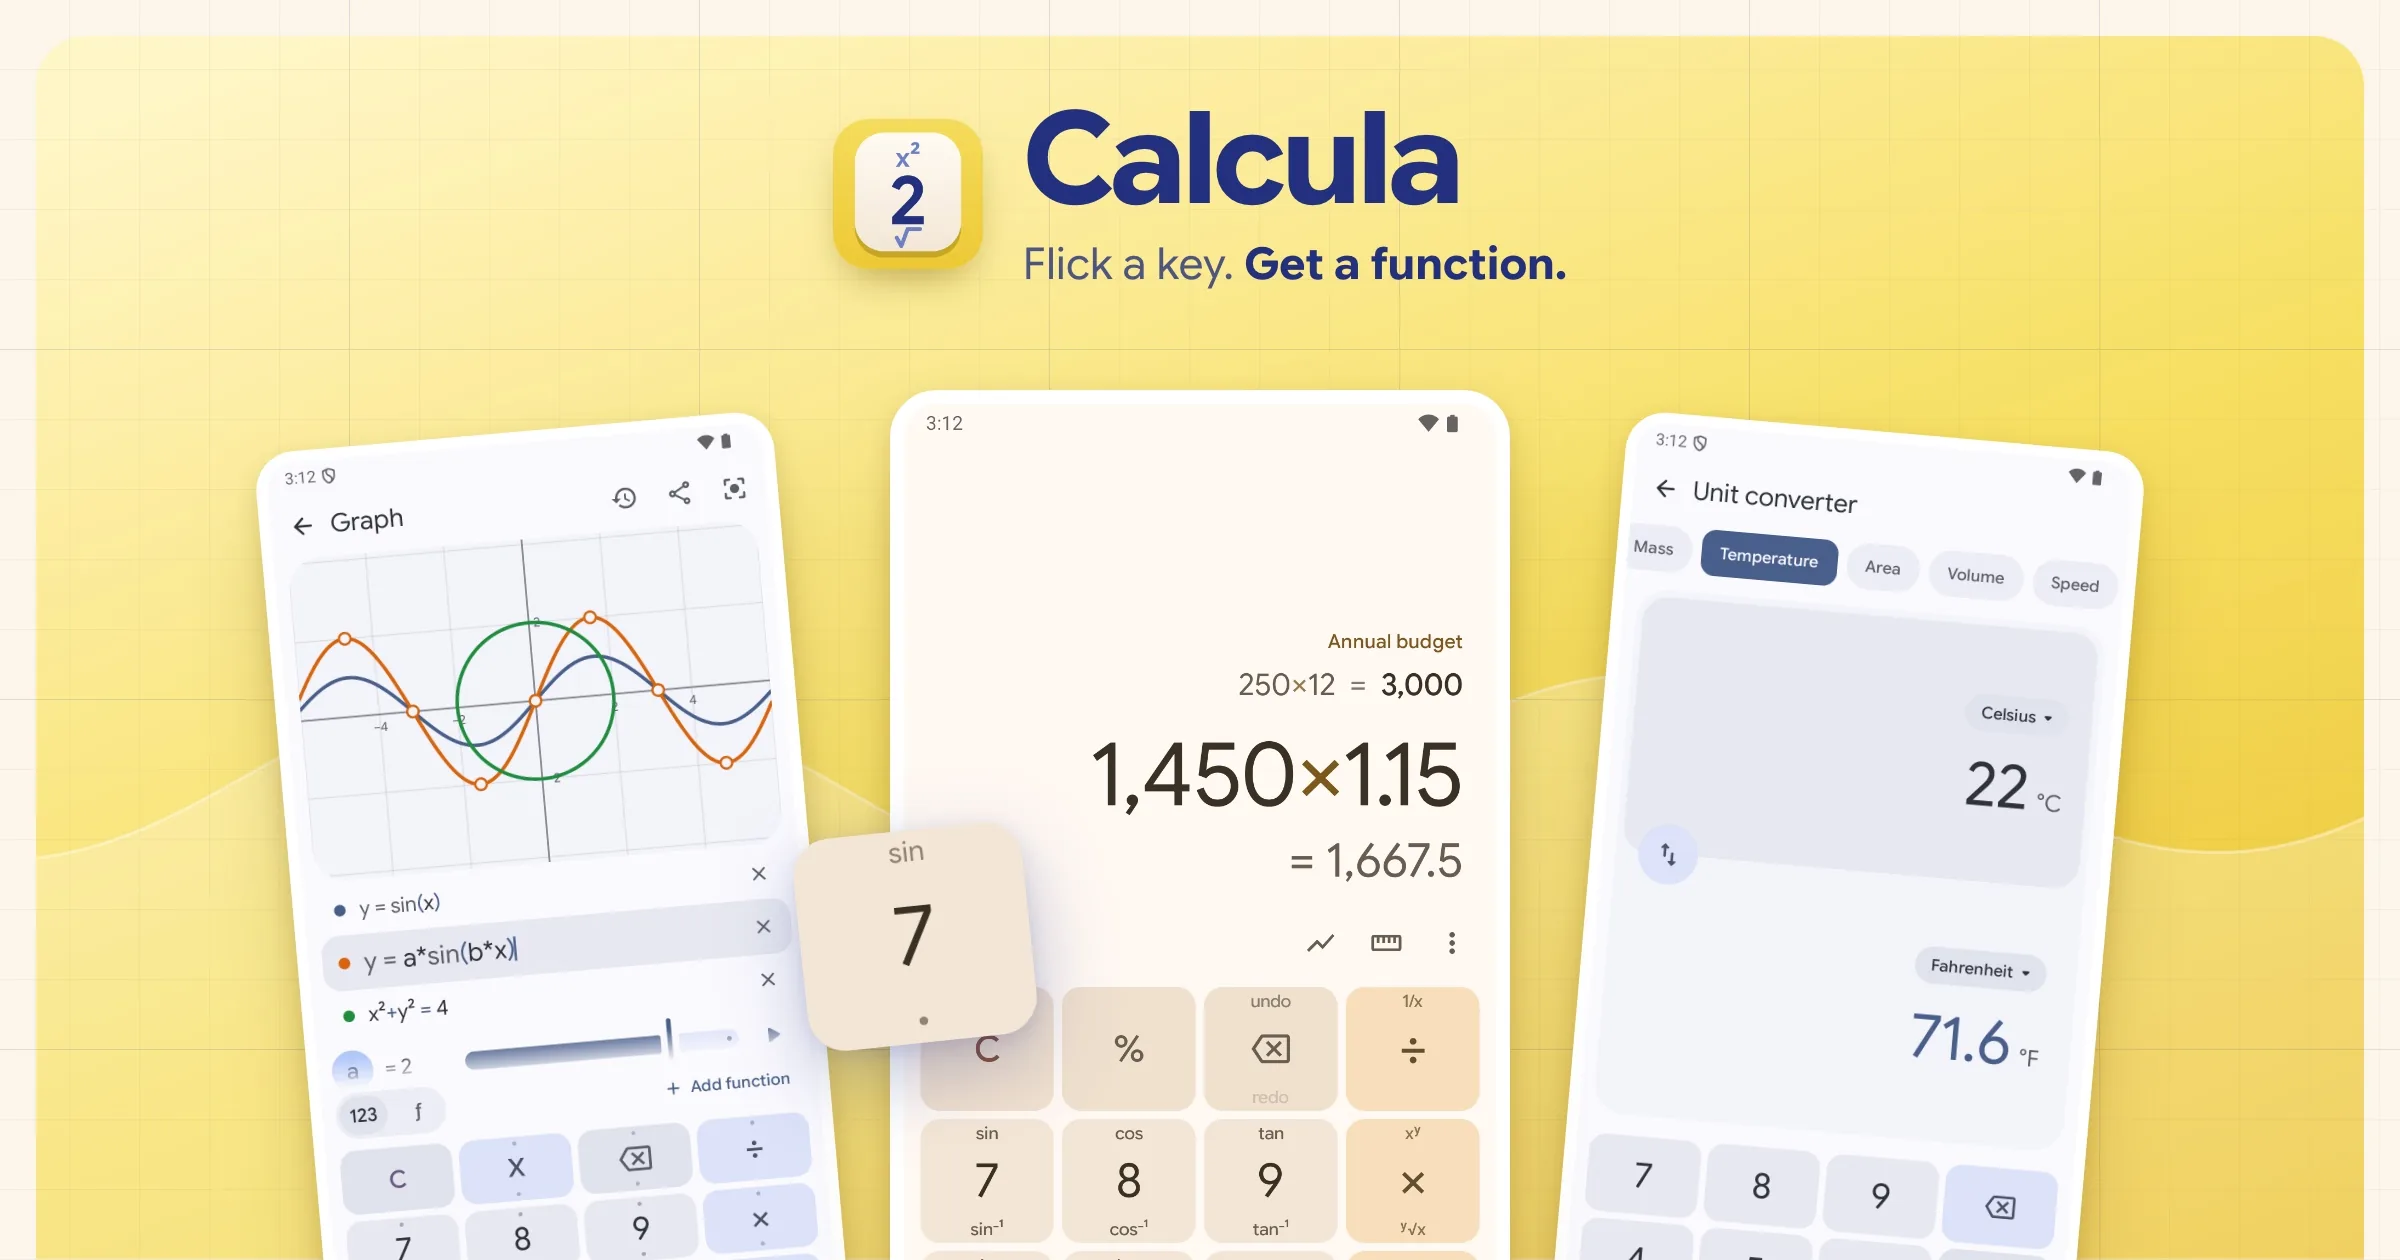
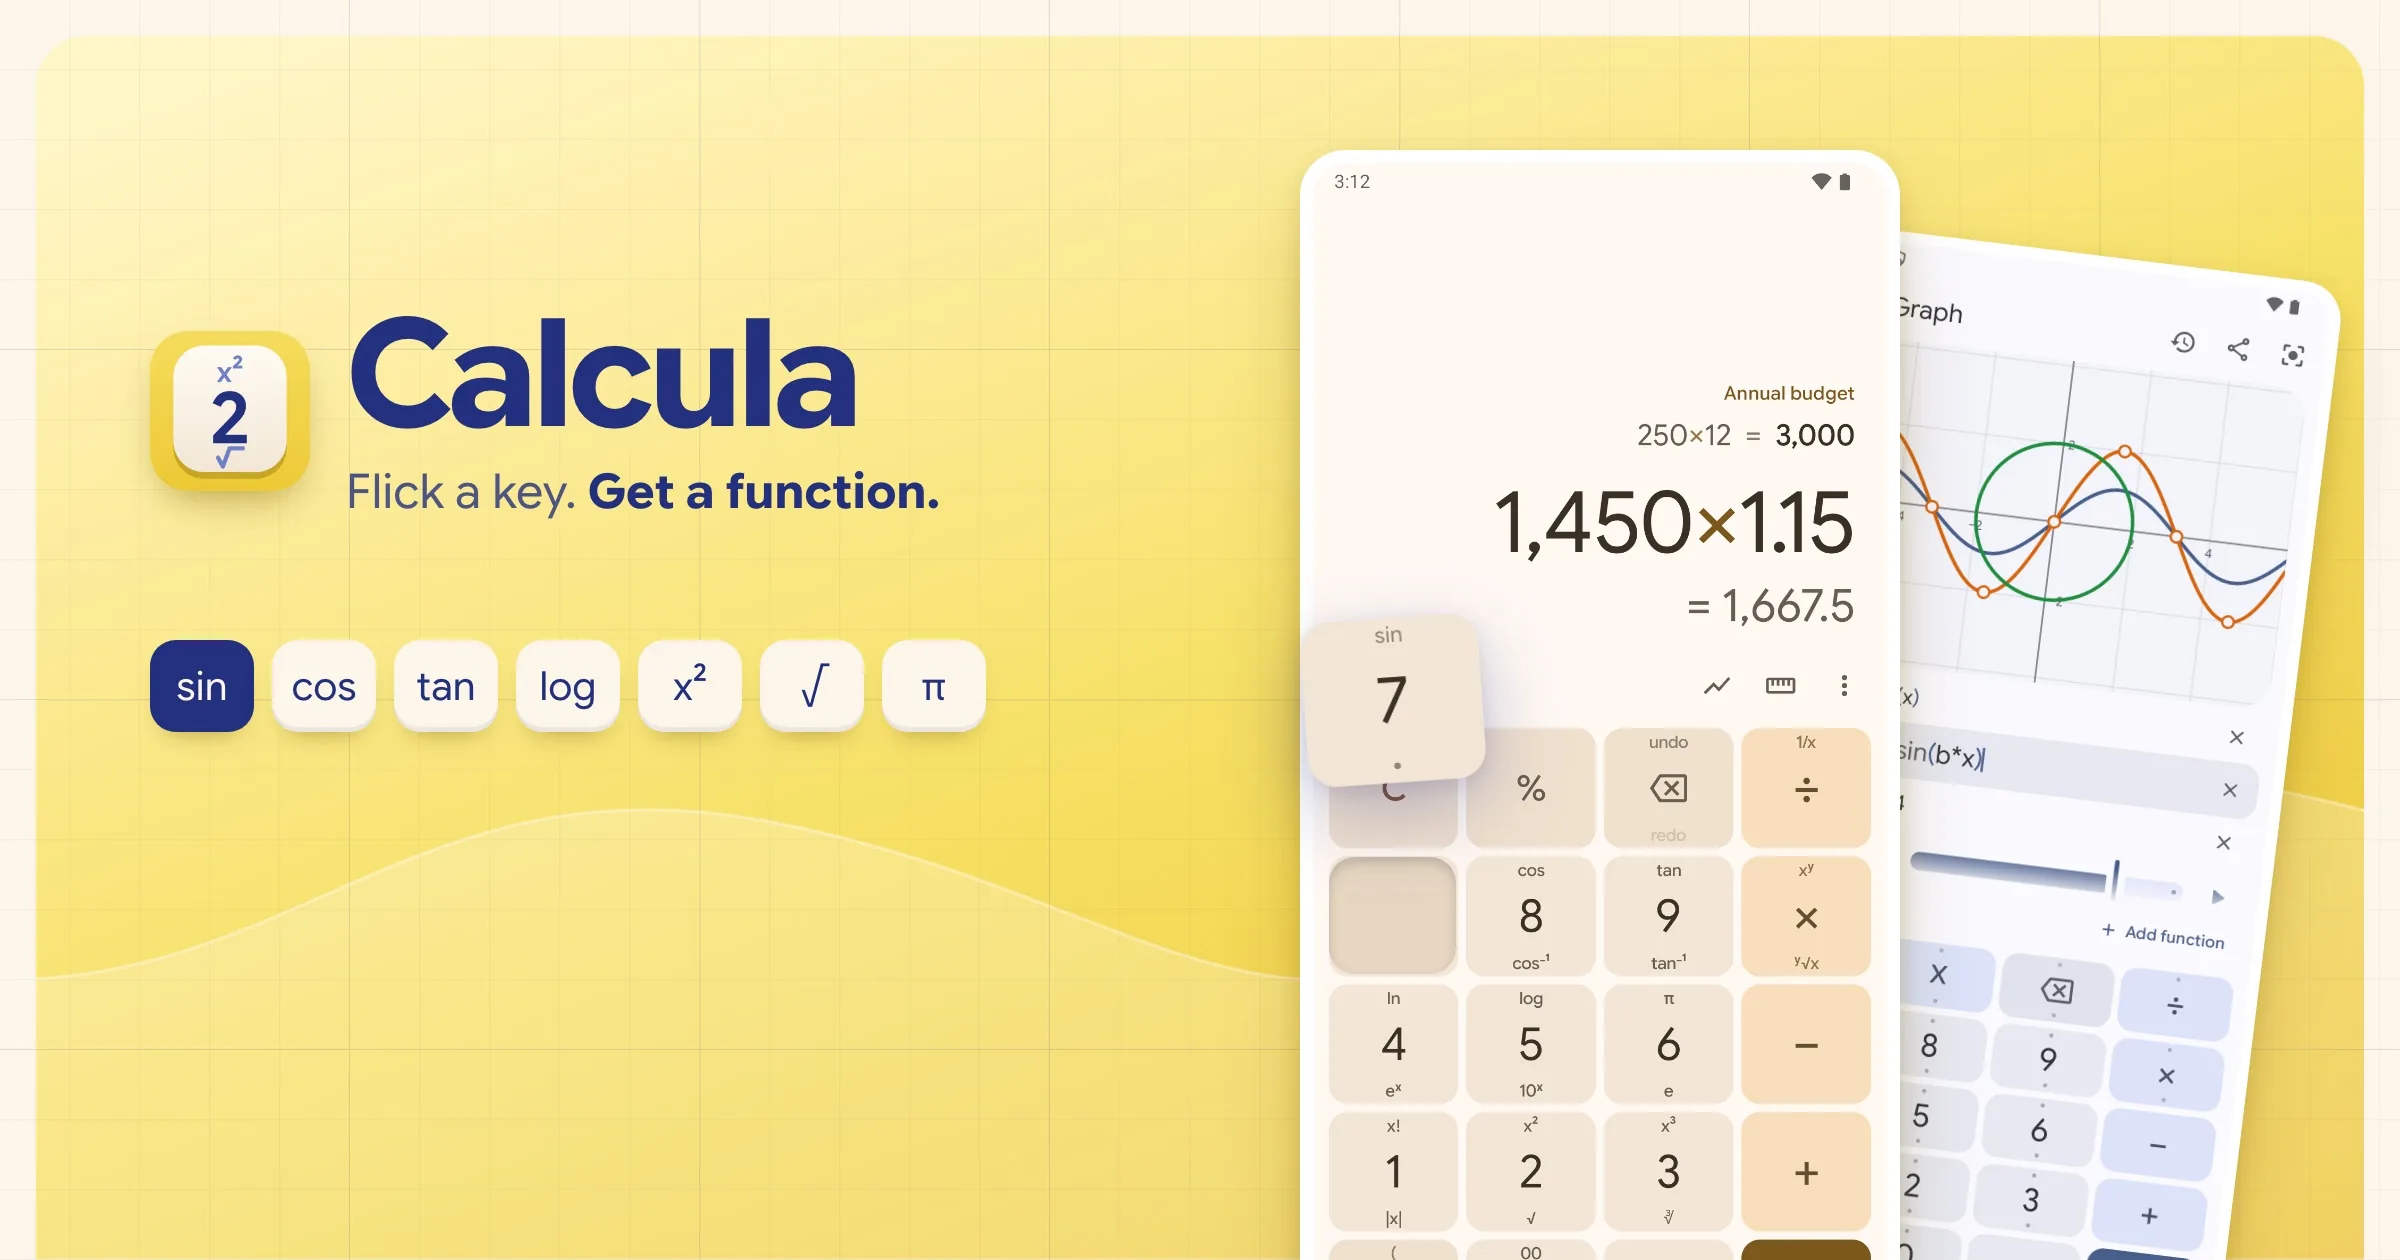
New Calcula and Wordkeep headers lead their cards

diff --git a/lib/apps.ts b/lib/apps.ts
@@ -87,7 +87,7 @@ export const apps: AppData[] = [
     images: [
       {
         file: "hero",
-        alt: "Wordkeep's notes grid, a Markdown note as you write it, and a to-do list",
+        alt: "A note written in plain Markdown, and the same note read clean",
       },
       {
         file: "notebook-1",
@@ -115,7 +115,7 @@ export const apps: AppData[] = [
     images: [
       {
         file: "hero",
-        alt: "A graph, the keypad with a function on every key, and unit conversion",
+        alt: "The 7 key lifted out of the keypad with sin on it, and a graph behind",
       },
       {
         file: "tools",
